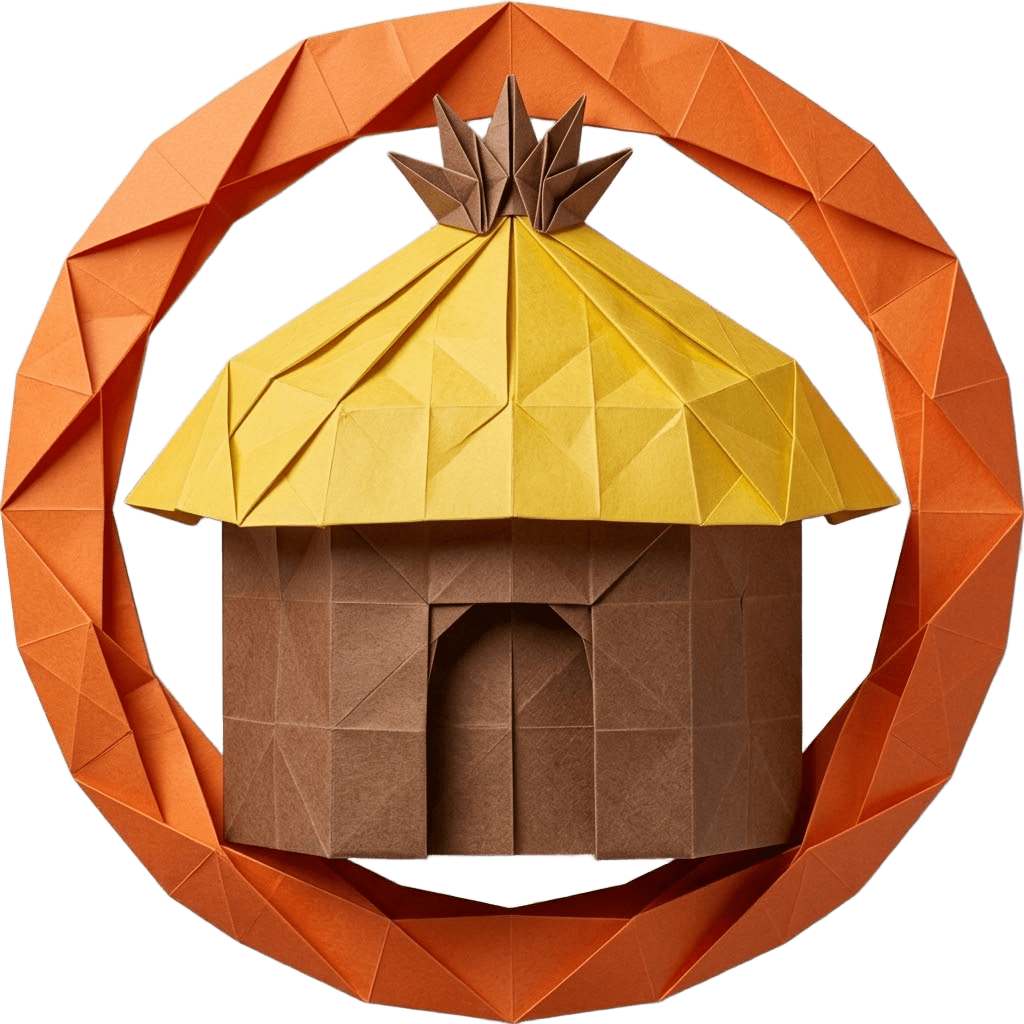
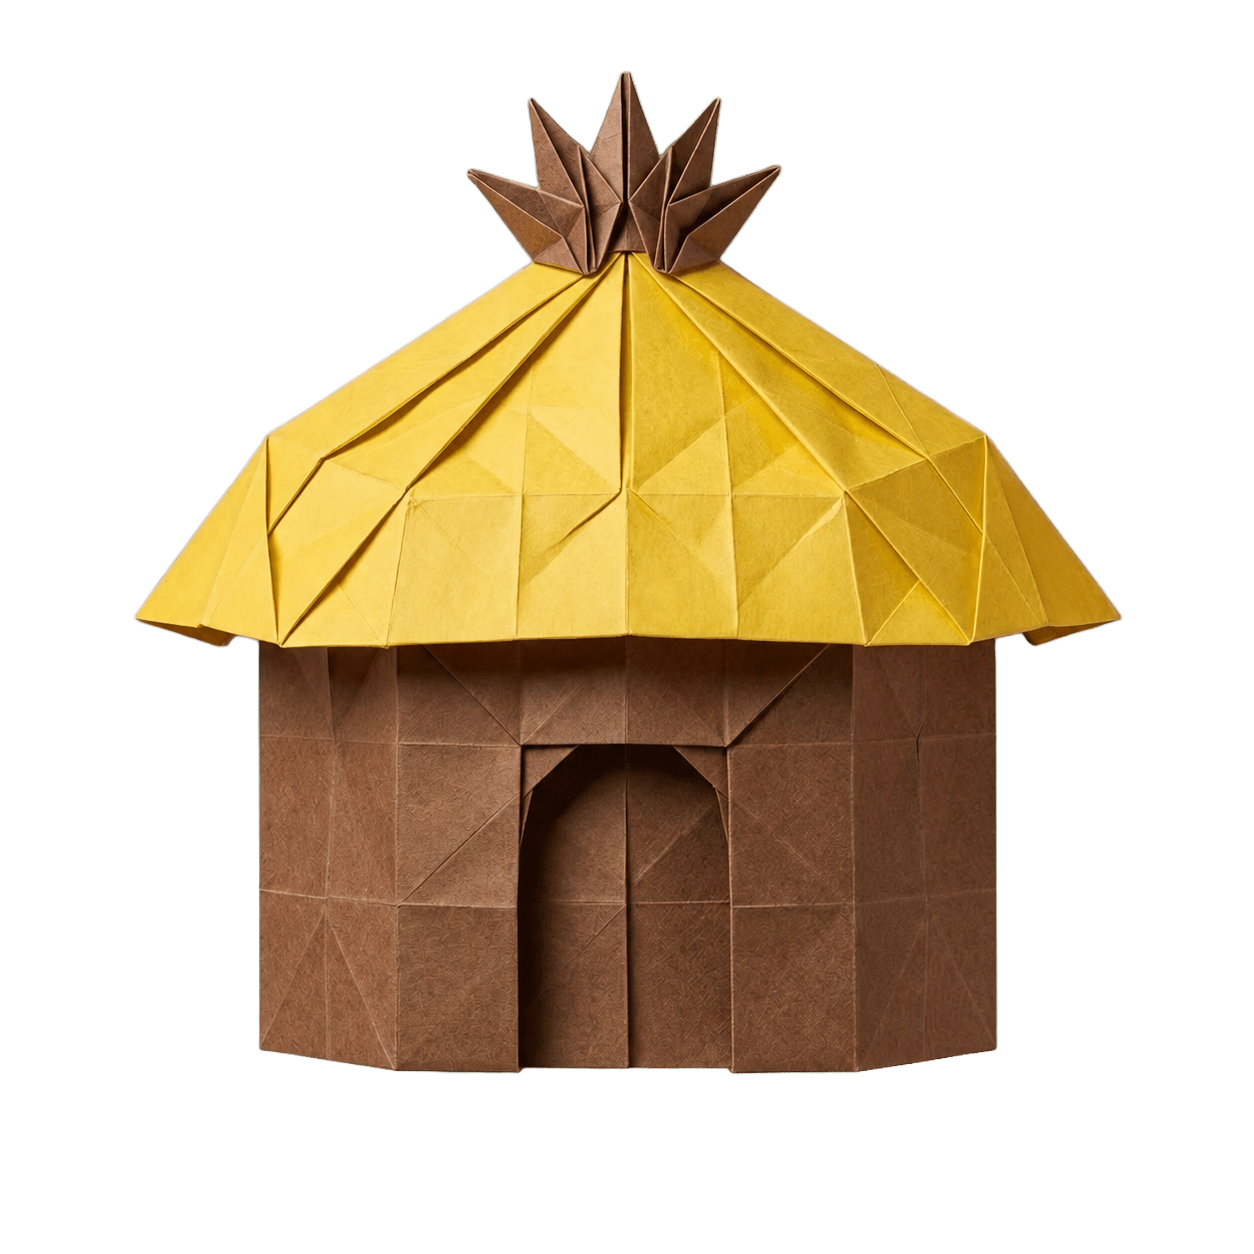
style: rework about-intro background from full-page CSS background to scoped, manually-positioned img element

diff --git a/css/about.css b/css/about.css
@@ -1,7 +1,16 @@
 .about-intro {
-  min-height: 150vh; /* or whatever height you want this section to be */
-  background-image: url('../img/aboutpage/background2.png');
-  background-size: cover;
-  background-position: center;
-  background-repeat: no-repeat;
+  position: relative;
+  min-height: 100vh;
+  background-color: #ffffff; /* white background for the section */
+  overflow: hidden; 
+}
+
+.about-intro__bg {
+  display: block;
+  position: absolute;
+  top: 120px;        /* nudge this to move the image down/up */
+  left: 350px;       /* nudge this to move the image left/right */
+  width: 820px;   /* set an explicit width — % of section, or a fixed px value */
+  height: 500px;  
+  z-index: 0;
 }

diff --git a/about.html b/about.html
@@ -71,8 +71,7 @@
     </header>
     <main>
         <div class="about-intro"></div>
-
-
+            <img src="./img/aboutpage/background2.png" alt="" class="about-intro__bg" />
     </main>
 
     <!--<footer class="footer">